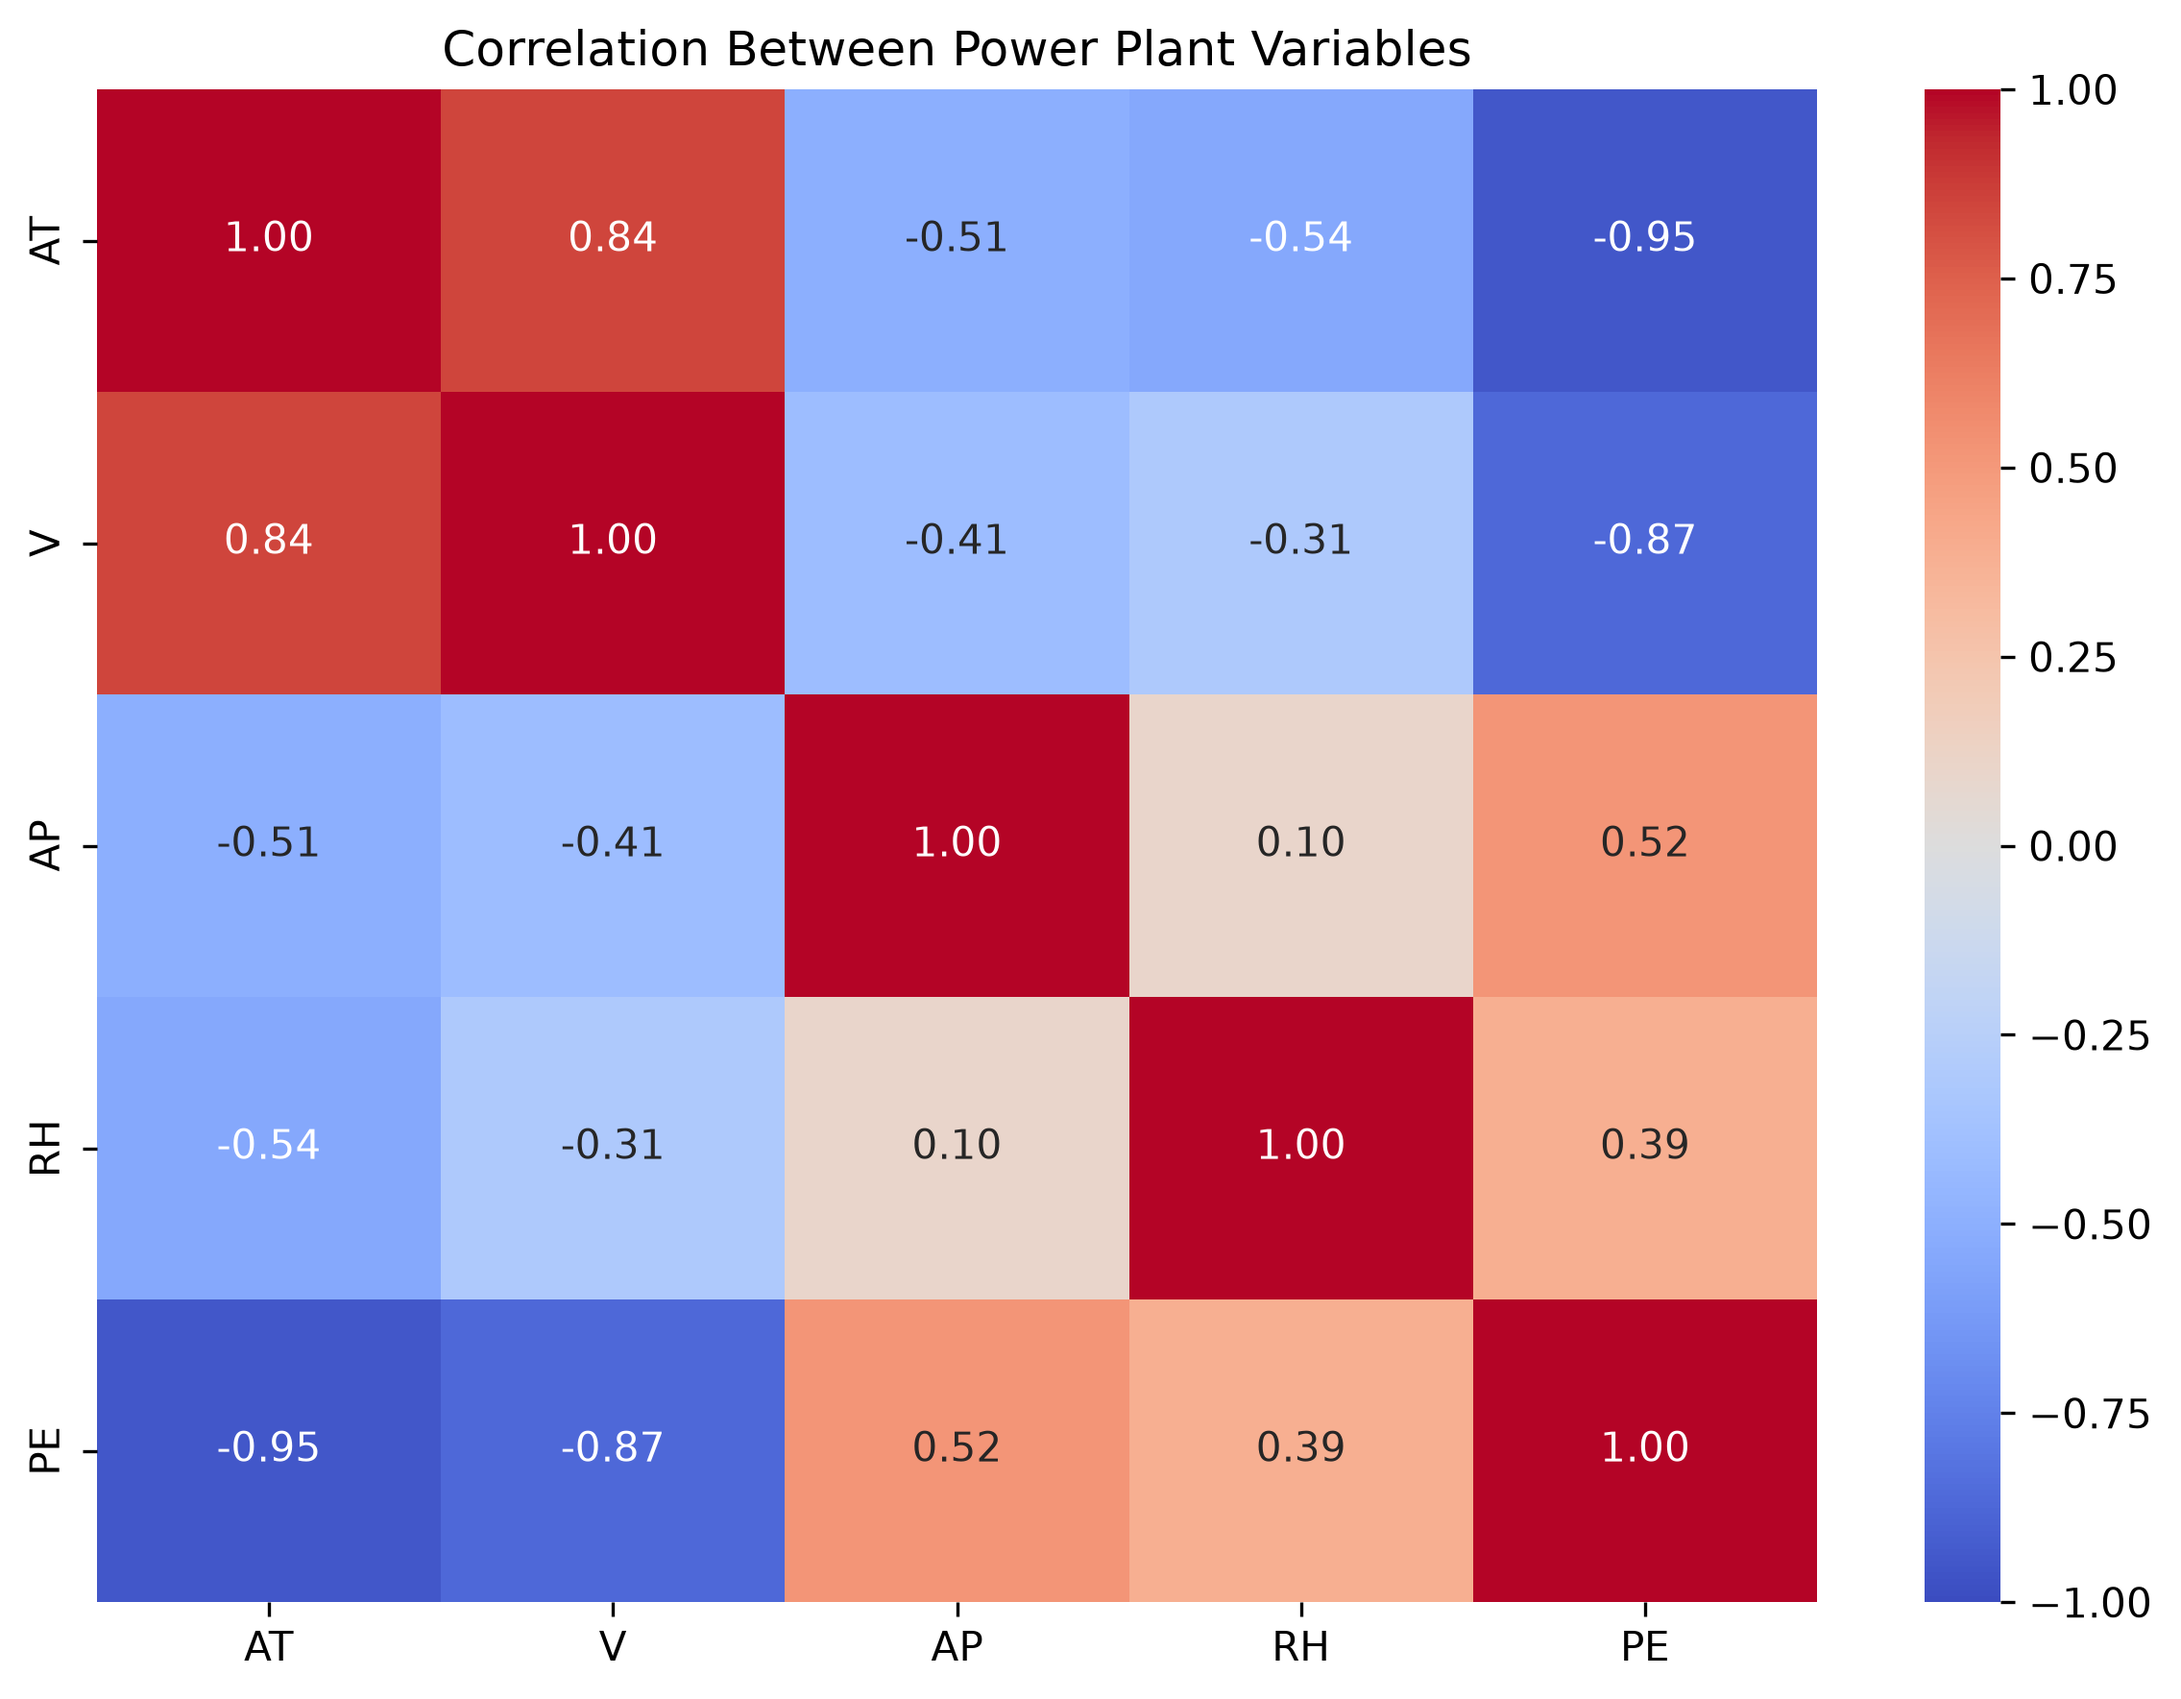
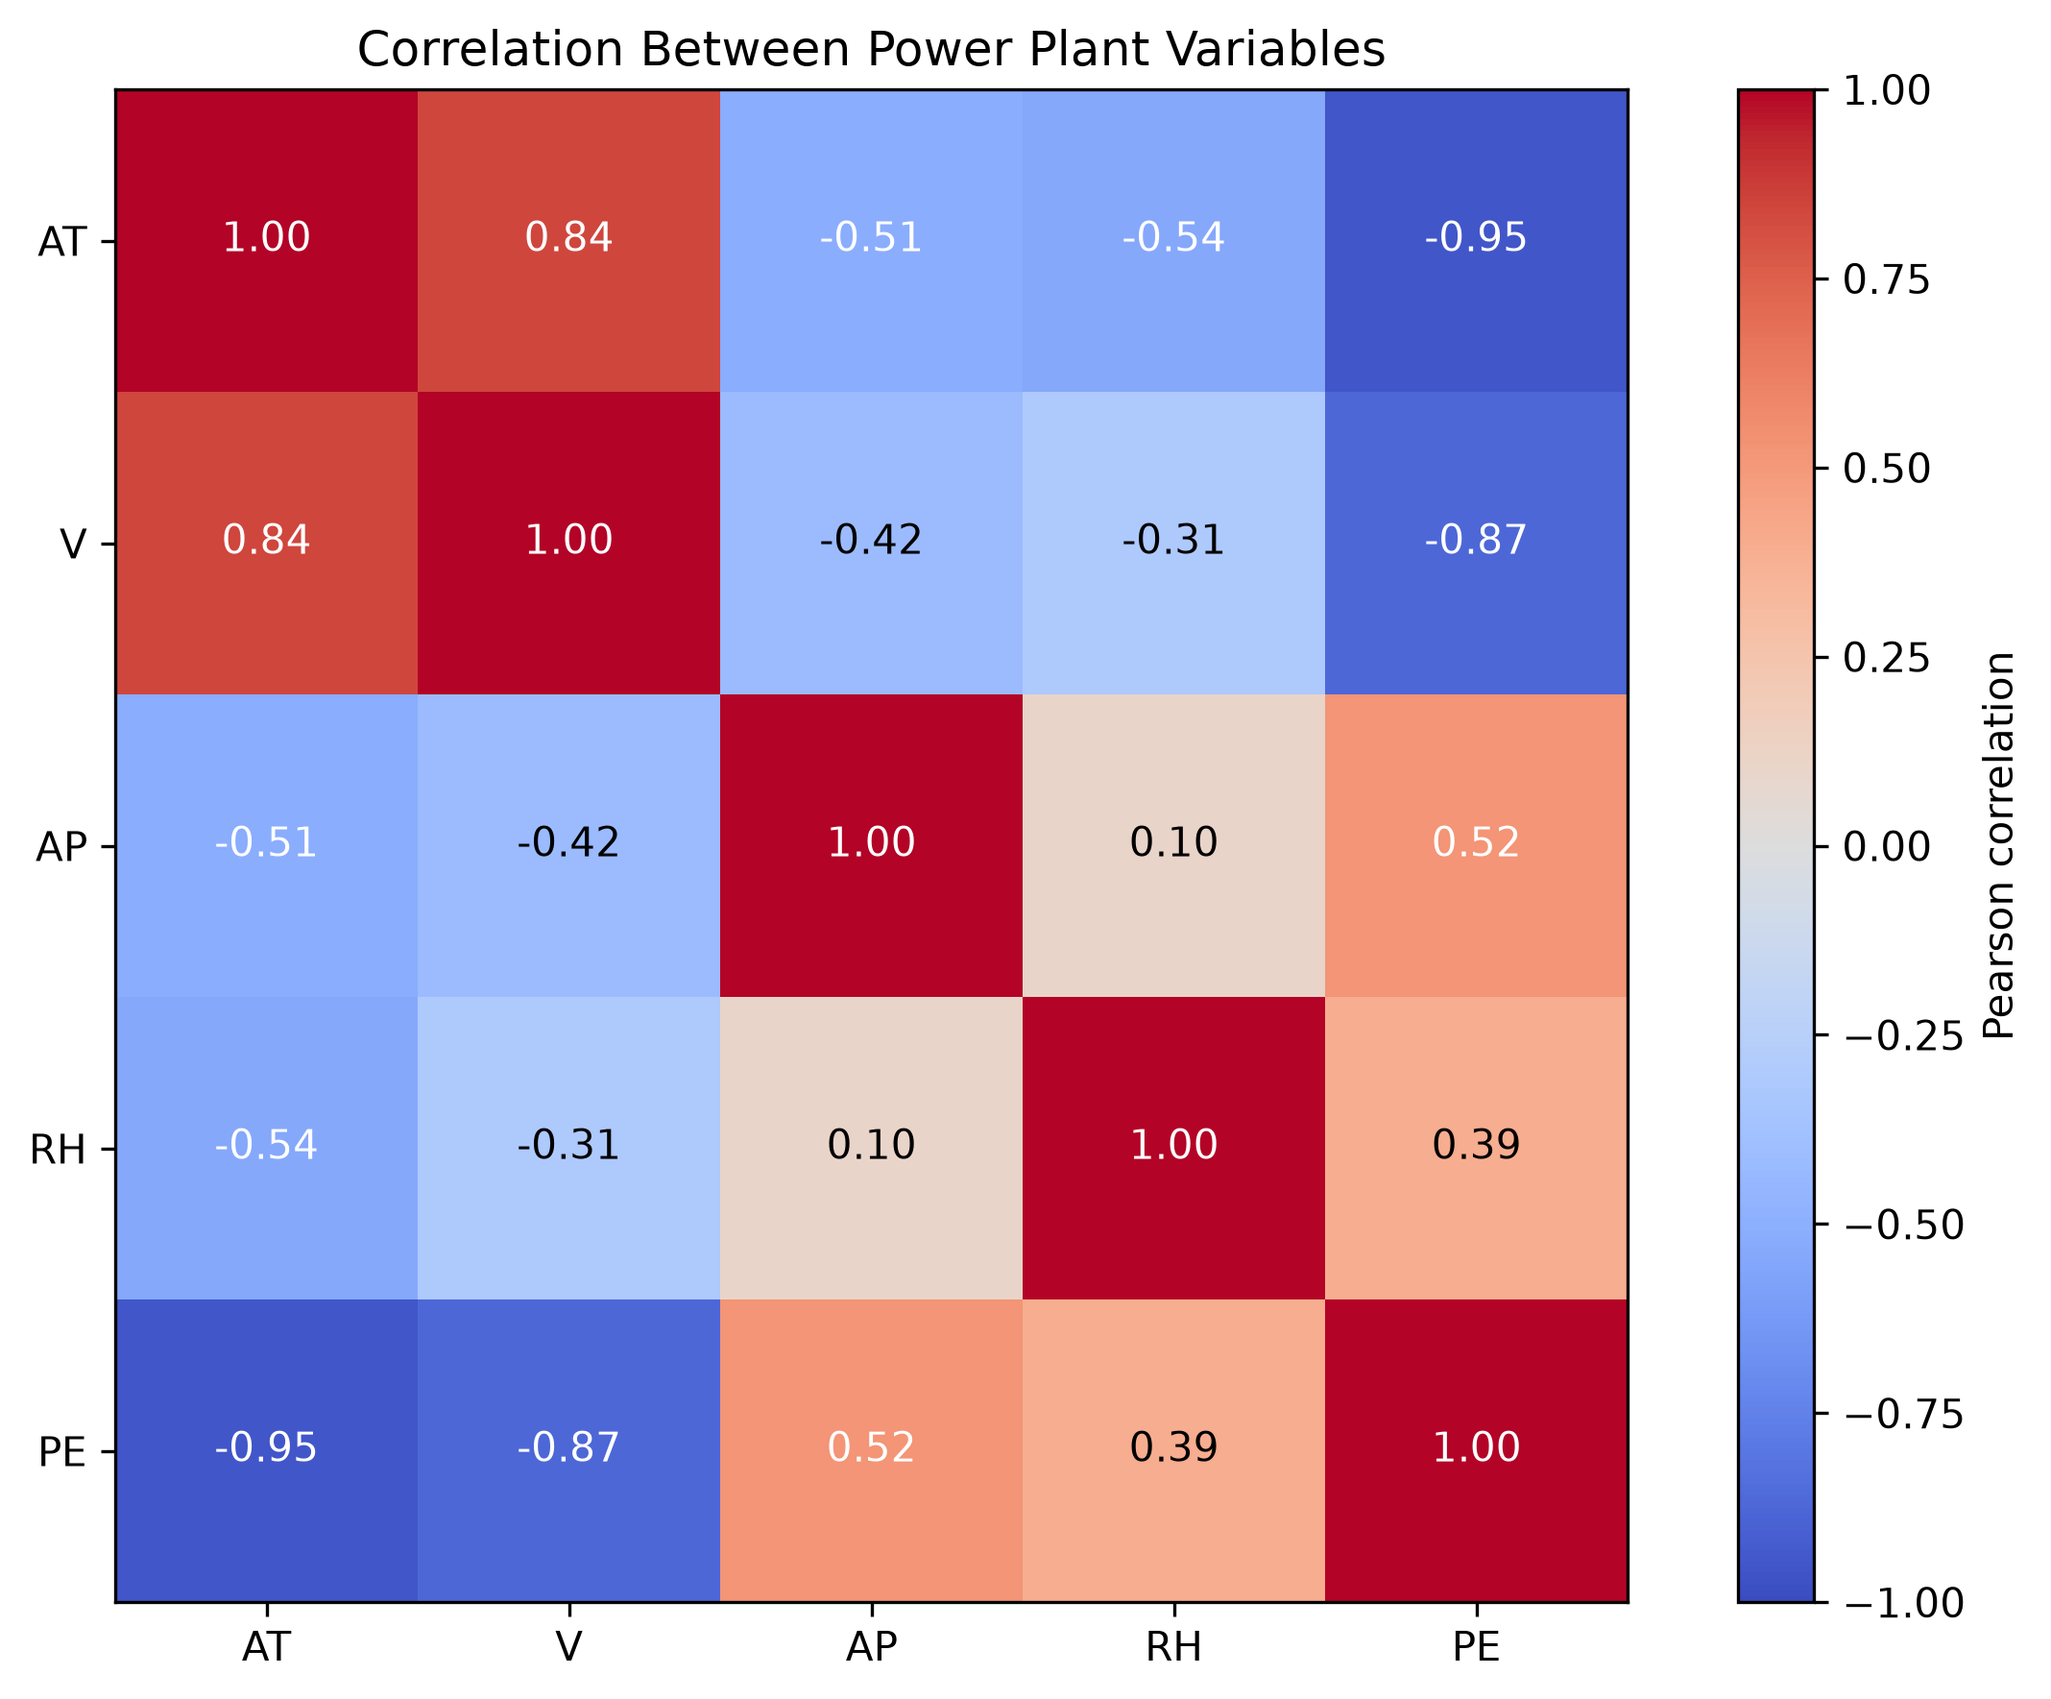
Implemented data cleaning, dataset splitting, and MLR baseline

diff --git a/main.py b/main.py
@@ -1,16 +1,49 @@
+# MMA3001 Project: Combined Cycle Power Plant Output Prediction
 
-import pandas as pd
+# Import libraries
+import time
 import matplotlib
-matplotlib.use("Agg")
-
+matplotlib.use("Agg")  # Save plots without opening a graphical window
 import matplotlib.pyplot as plt
-import seaborn as sns
+import pandas as pd
+from sklearn.linear_model import LinearRegression
+from sklearn.metrics import mean_absolute_error, mean_squared_error, r2_score
+from sklearn.model_selection import train_test_split
 
-# Load the first worksheet of the power plant dataset
+
+# ============================================================
+# Reusable functions
+# ============================================================
+
+def evaluate_model(y_true, y_pred):
+    """Calculate MAE, RMSE and R² for regression predictions."""
+    mae = mean_absolute_error(y_true, y_pred)
+    rmse = mean_squared_error(y_true, y_pred) ** 0.5
+    r2 = r2_score(y_true, y_pred)
+
+    return mae, rmse, r2
+
+
+# ============================================================
+# 1. Load and inspect the dataset
+# ============================================================
+
+# Load the first worksheet containing the power plant observations.
 df = pd.read_excel("data/Folds5x2_pp.xlsx", sheet_name=0)
+print("Original dataset shape:", df.shape)
 
-# Display basic information about the dataset
-print("Dataset shape:", df.shape)
+# Check for missing values and repeated observations.
+print("\nMissing values:")
+print(df.isnull().sum())
+
+duplicate_count = df.duplicated().sum()
+print("\nDuplicate rows found:", duplicate_count)
+
+# Remove exact duplicates to reduce potential overlap between data splits.
+# The original Excel file remains unchanged.
+df = df.drop_duplicates().reset_index(drop=True)
+
+print("Dataset shape after cleaning:", df.shape)
 
 print("\nFirst 5 rows:")
 print(df.head())
@@ -18,24 +51,102 @@ print(df.head())
 print("\nColumn names:")
 print(df.columns.tolist())
 
-print("\nMissing values:")
-print(df.isnull().sum())
-
 print("\nStatistical summary:")
 print(df.describe())
 
-# Calculate correlations between variables
+
+# ============================================================
+# 2. Exploratory data analysis
+# ============================================================
+
+# Calculate correlations to examine relationships between variables.
 correlations = df.corr()
 
 print("\nCorrelation with electrical power output:")
 print(correlations["PE"].sort_values())
 
-# Create a correlation heatmap
-plt.figure(figsize=(8, 6))
-sns.heatmap(correlations, annot=True, cmap="coolwarm",
-            fmt=".2f", vmin=-1, vmax=1)
-plt.title("Correlation Between Power Plant Variables")
-plt.tight_layout()
-plt.savefig("correlation_heatmap.png", dpi=300, bbox_inches="tight")
-plt.close()
+# Visualise correlations using Matplotlib.
+fig, ax = plt.subplots(figsize=(8, 6))
+heatmap = ax.imshow(correlations, cmap="coolwarm", vmin=-1, vmax=1)
+
+# Label each variable and display its correlation coefficient.
+ax.set_xticks(range(len(correlations.columns)))
+ax.set_yticks(range(len(correlations.columns)))
+ax.set_xticklabels(correlations.columns)
+ax.set_yticklabels(correlations.columns)
+
+for i in range(len(correlations)):
+    for j in range(len(correlations.columns)):
+        value = correlations.iloc[i, j]
+        text_color = "white" if abs(value) > 0.5 else "black"
+        ax.text(j, i, f"{value:.2f}", ha="center", va="center",
+                color=text_color)
+
+fig.colorbar(heatmap, ax=ax, label="Pearson correlation")
+ax.set_title("Correlation Between Power Plant Variables")
+fig.tight_layout()
+fig.savefig("correlation_heatmap.png", dpi=300, bbox_inches="tight")
+plt.close(fig)
+
 print("\nHeatmap saved successfully!")
+
+
+# ============================================================
+# 3. Prepare training, validation and testing datasets
+# ============================================================
+
+# Separate the four operating conditions from electrical power output.
+X = df[["AT", "V", "AP", "RH"]]
+y = df["PE"]
+
+# Reserve 15% for final testing using a fixed seed for reproducibility.
+X_temp, X_test, y_temp, y_test = train_test_split(
+    X, y, test_size=0.15, random_state=42
+)
+
+# Divide the remaining observations into 70% training and 15% validation.
+X_train, X_val, y_train, y_val = train_test_split(
+    X_temp, y_temp, test_size=0.15 / 0.85, random_state=42
+)
+
+# Verify the number of observations in each dataset.
+print("\nDataset split:")
+print("Training samples:", len(X_train))
+print("Validation samples:", len(X_val))
+print("Testing samples:", len(X_test))
+print("Total samples:", len(X_train) + len(X_val) + len(X_test))
+
+
+# ============================================================
+# 4. Multiple Linear Regression (MLR)
+# ============================================================
+
+# Use MLR as an interpretable baseline for comparison with SVR and ANN.
+mlr_model = LinearRegression()
+
+# Measure the time required to fit the model to the training data.
+start_time = time.perf_counter()
+mlr_model.fit(X_train, y_train)
+mlr_train_time = time.perf_counter() - start_time
+
+# Predict electrical output using the validation dataset.
+start_time = time.perf_counter()
+mlr_val_pred = mlr_model.predict(X_val)
+mlr_predict_time = time.perf_counter() - start_time
+
+# Evaluate the model using the same metrics planned for SVR and ANN.
+mlr_mae, mlr_rmse, mlr_r2 = evaluate_model(y_val, mlr_val_pred)
+
+print("\nMultiple Linear Regression - Validation Results:")
+print(f"MAE: {mlr_mae:.4f} MW")
+print(f"RMSE: {mlr_rmse:.4f} MW")
+print(f"R²: {mlr_r2:.4f}")
+print(f"Training time: {mlr_train_time:.6f} seconds")
+print(f"Prediction time: {mlr_predict_time:.6f} seconds")
+
+# Display the fitted coefficients in their original engineering units.
+print("\nMLR intercept:", mlr_model.intercept_)
+
+print("\nMLR coefficients:")
+for feature, coefficient in zip(X.columns, mlr_model.coef_):
+    print(f"{feature}: {coefficient:.4f}")
